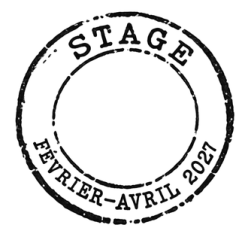
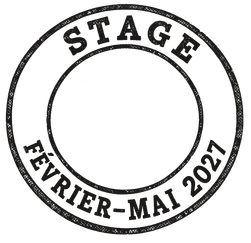
Home: internship dates February–May 2027 (bio, buddy, stamp)

diff --git a/js/i18n.js b/js/i18n.js
@@ -29,7 +29,7 @@ const DICT = {
     "home.bio1": "I’m a front-end developer, and what gets me going is movement. A title that slides in, an image that reveals itself on scroll, a transition that makes you want to keep going: that’s where I have the most fun. GSAP and JS libraries are my best allies.",
     "home.bio2": "Before code, there was publishing. That’s where I caught the branding and visual identity bug. Today, I mix the two: I create graphic worlds and bring them to life on screen.",
     "home.bio3": "And I love what I do. Every day, I try a new tool or learn a new technique, and it never stops.",
-    "home.bio4": "Next step: an internship from February to April 2027, in Brussels. If you like websites that move, we should get along.",
+    "home.bio4": "Next step: an internship from February to May 2027, in Brussels. If you like websites that move, we should get along.",
     "home.contact": "Contact",
     "home.contactMe": "Contact me",
     "home.skills": "Skills",
@@ -99,7 +99,7 @@ const DICT = {
     "home.bio1": "Je suis front-end developer, et ce qui me fait vibrer, c’est le mouvement. Un titre qui glisse, une image qui se révèle au scroll, une transition qui donne envie de continuer : c’est là que je m’amuse le plus. GSAP et les librairies JS sont mes meilleurs alliés.",
     "home.bio2": "Avant le code, il y a eu l’édition. C’est là que j’ai attrapé le virus du branding et de l’identité visuelle. Aujourd’hui, je mélange les deux : je crée des univers graphiques et je leur donne vie à l’écran.",
     "home.bio3": "Et j’aime ce que je fais. Chaque jour, je teste un nouvel outil ou j’apprends une nouvelle technique, et ça ne s’arrête jamais.",
-    "home.bio4": "Prochaine étape : un stage de février à avril 2027, à Bruxelles. Si vous aimez les sites qui bougent, on devrait bien s’entendre.",
+    "home.bio4": "Prochaine étape : un stage de février à mai 2027, à Bruxelles. Si vous aimez les sites qui bougent, on devrait bien s’entendre.",
     "home.contact": "Contact",
     "home.contactMe": "Contactez-moi",
     "home.skills": "Compétences",

diff --git a/index.html b/index.html
@@ -148,7 +148,7 @@
         <h2 class="piece txt t-hand label-about" id="about-title" data-i18n="home.about">ABout</h2>
         <span class="piece rule rule-bio" aria-hidden="true"></span>
         <div class="piece txt t-type bio-column-1"><p data-i18n="home.bio1">I’m a front-end developer, and what gets me going is movement. A title that slides in, an image that reveals itself on scroll, a transition that makes you want to keep going: that’s where I have the most fun. GSAP and JS libraries are my best allies.</p><p data-i18n="home.bio2">Before code, there was publishing. That’s where I caught the branding and visual identity bug. Today, I mix the two: I create graphic worlds and bring them to life on screen.</p></div>
-        <div class="piece txt t-type bio-column-2"><p data-i18n="home.bio3">And I love what I do. Every day, I try a new tool or learn a new technique, and it never stops.</p><p data-i18n="home.bio4">Next step: an internship from February to April 2027, in Brussels. If you like websites that move, we should get along.</p></div>
+        <div class="piece txt t-type bio-column-2"><p data-i18n="home.bio3">And I love what I do. Every day, I try a new tool or learn a new technique, and it never stops.</p><p data-i18n="home.bio4">Next step: an internship from February to May 2027, in Brussels. If you like websites that move, we should get along.</p></div>
         <span class="piece rule rule-column-1" aria-hidden="true"></span>
         <span class="piece rule rule-column-2" aria-hidden="true"></span>
         <p class="piece txt t-hand label-contact" data-i18n="home.contact">Contact</p>

diff --git a/js/buddy.js b/js/buddy.js
@@ -82,8 +82,8 @@ const LINES = FR ? [
   `Her projects are behind that blue note. I'd click it. I'm biased, I'm a folder.${ahead}`,
 ];
 const WIN = FR
-  ? "Vous m’avez attrapé 6 fois ! Vous avez clairement du goût. Elle cherche un stage à Bruxelles, de février à avril 2027… je dis ça, je dis rien ♥"
-  : "You caught me 6 times! Clearly you have taste. She's looking for an internship in Brussels, February to April 2027… just saying ♥";
+  ? "Vous m’avez attrapé 6 fois ! Vous avez clairement du goût. Elle cherche un stage à Bruxelles, de février à mai 2027… je dis ça, je dis rien ♥"
+  : "You caught me 6 times! Clearly you have taste. She's looking for an internship in Brussels, February to May 2027… just saying ♥";
 const CTA = FR ? "Dire bonjour →" : "Say hi →";
 const EXTRA = FR ? [
   "Bon, bon, vous avez gagné. Allez lui écrire !",

diff --git a/js/home.js b/js/home.js
@@ -208,7 +208,7 @@ function initHover() {
   on(".paperclip-silver, .paperclip-diagonal", withSound(wiggle, "jingle"));
   on(".button-strawberry-gingham, .button-gingham-blue, .button-flower-frosted", withSound(spin, "pop"));
   on(".sticker-ctrl-z", withSound(press, "rewind"));
-  // the "stage février–avril 2027" stamp stays still: no hover animation
+  // the "stage février–mai 2027" stamp stays still: no hover animation
   on(".pin-heart-charm", withSound(swing, "jingle"));
   document.querySelector(".badge-portrait-imane")?.addEventListener(evt, () => play("jingle"));
   on(".g-polaroid", withSound(hang, "paper"));
